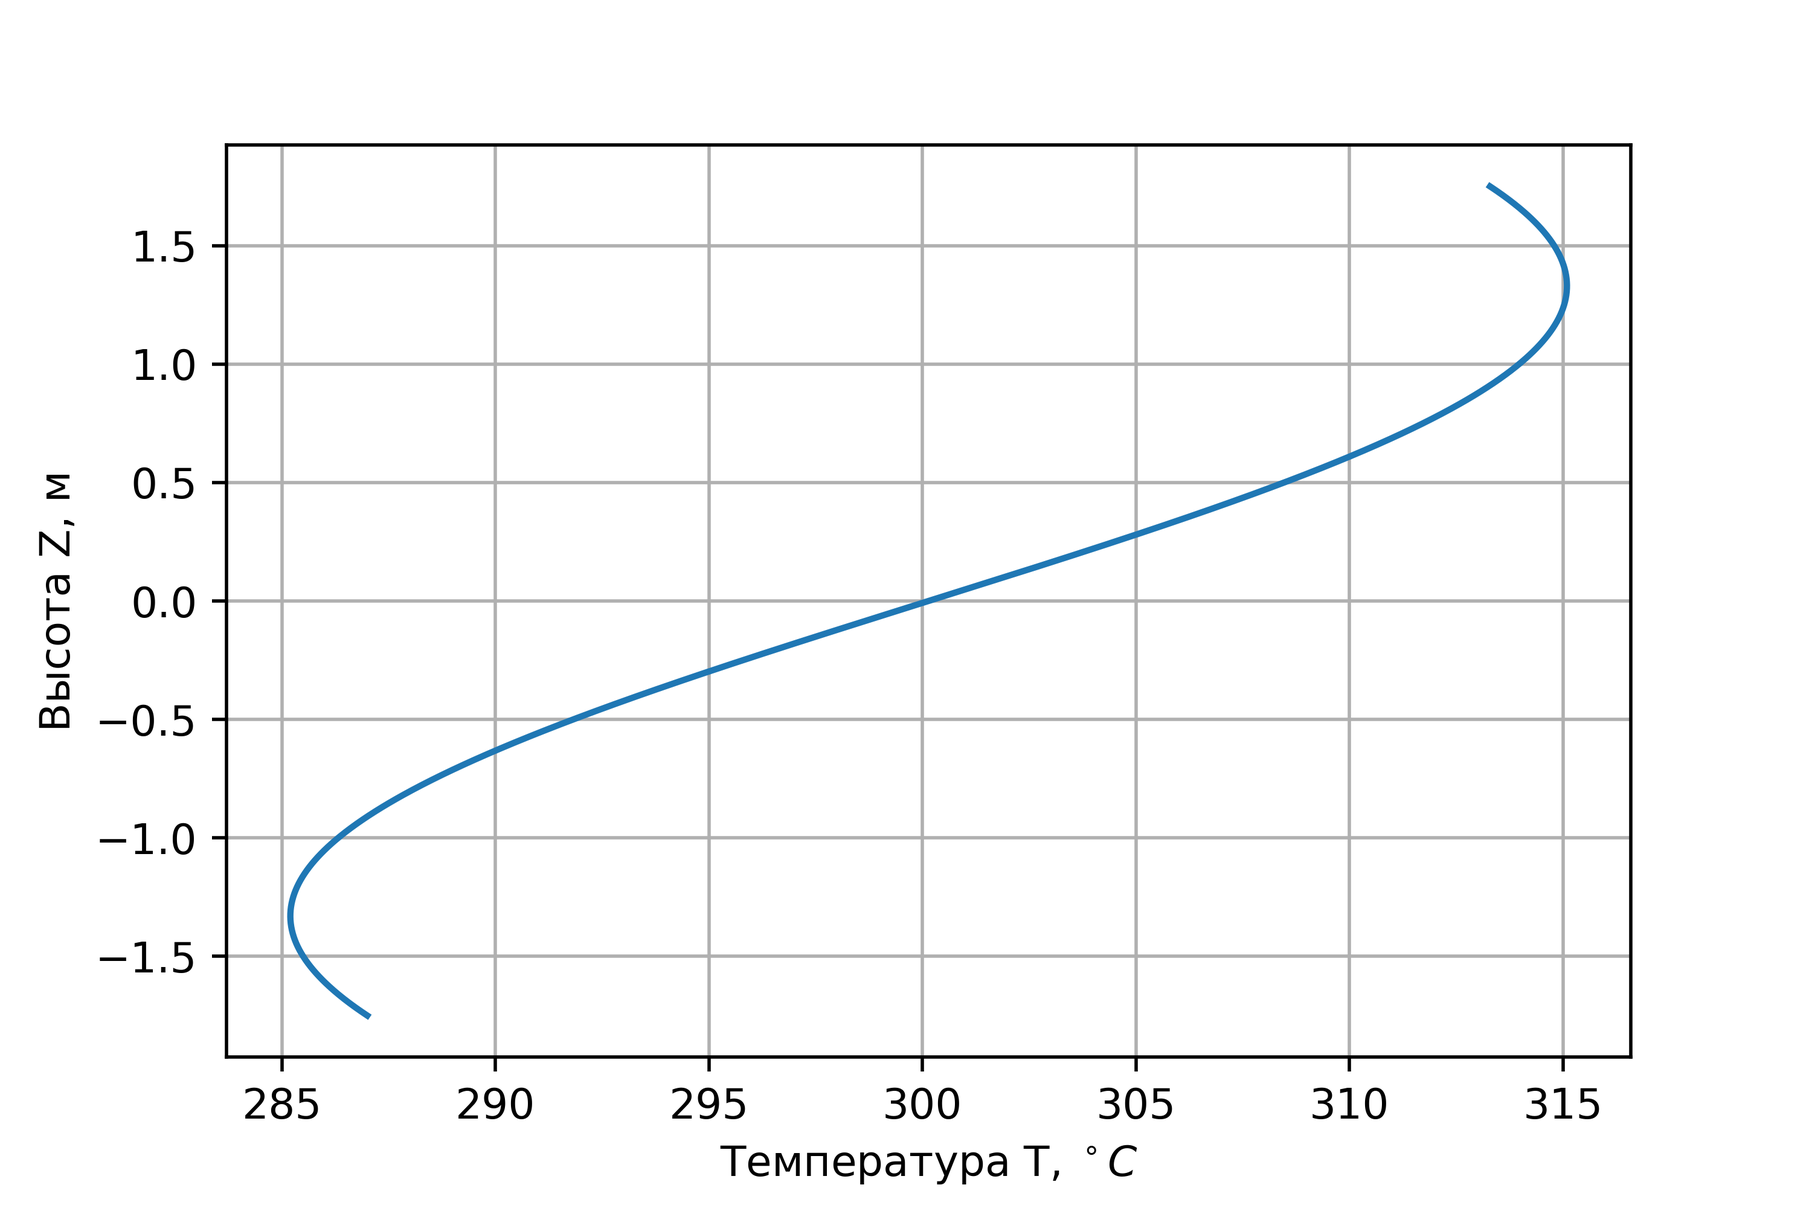
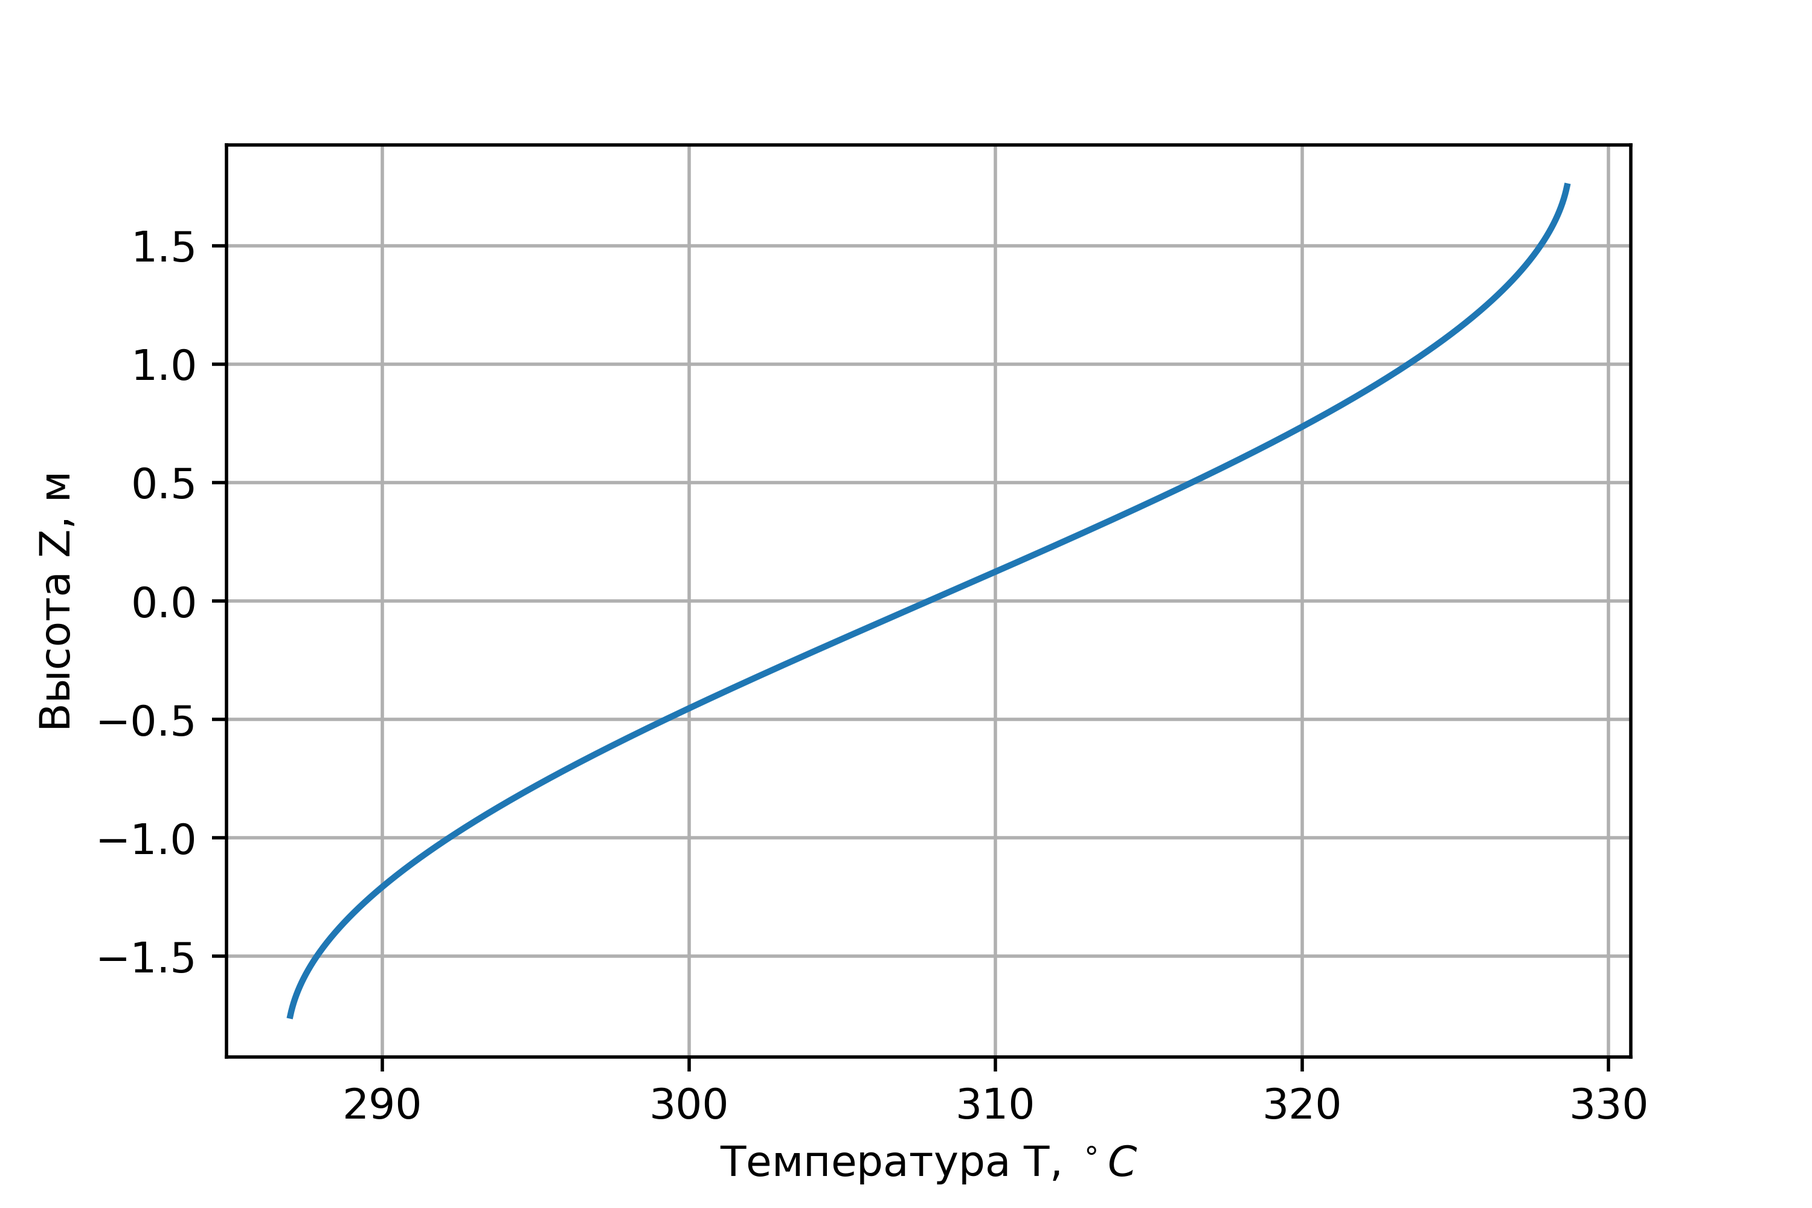
пересчитал, переписал до первого графика

diff --git a/content.tex b/content.tex
@@ -1,6 +1,6 @@
-\section*{Введение}
-\addcontentsline{toc}{section}{\protect Введение}%
-IN PROGRESS...
+% \section*{Введение}
+% \addcontentsline{toc}{section}{\protect Введение}%
+% IN PROGRESS...
 
 
 \section{Описание конструкции реактора}
@@ -10,7 +10,9 @@ IN PROGRESS...
 В верхней части реактора расположена герметично закрытая крышка с установленными на ней приводами механизмов и органов регулирования и защиты. Также крышка оснащена патрубками для вывода кабелей датчиков внутриреакторного контроля. Крепление  к корпусу осуществляется с помощью шпилек. 
 
 
-Реактор имеет двухконтурную систему. Энергия, выделяющаяся в результате ценой реакции деления ядер урана, преобразуется в тепловую энергию теплоносителя первого контура. Далее нагретый теплоноситель поступает с помощью тепловых насосов в парогенераторы, где происходит отдача тепла воде второго контура. Образовавшийся в парогенераторах пар далее поступает в паротурбинную установку, приводящую в движение турбогенератор, который вырабатывает электроэнергию. Вода, первогок
+Реактор имеет двухконтурную систему. Энергия, выделяющаяся в результате ценой реакции деления ядер урана, преобразуется в тепловую энергию теплоносителя первого контура. Далее нагретый теплоноситель поступает с помощью тепловых насосов в парогенераторы, где происходит отдача тепла воде второго контура. Образовавшийся в парогенераторах пар далее поступает в паротурбинную установку, приводящую в движение турбогенератор, который вырабатывает электроэнергию. 
+
+После передачи энергии в парогенераторах вода первого контура поступает в реактор через нижний ряд напорных патрубков. Сплошная кольцевая перегородка между рядами нижних и верхних патрубков, дистанцирующая корпус реактора и его шахту, формирует движение потока теплоносителя вниз. Поэтому вода проходит вниз по кольцевому зазору между корпусом и внутрикорпусной шахтой, затем через перфорированное эллиптическое днище и опорные трубы шахты входит в топливные тепловыделяющие сборки. Из ТВС через перфорированную нижнюю плиту блока защитных труб (БЗТ) теплоноситель выходит в межтрубное пространство БЗТ, а затем через кольцевой зазор между шахтой и корпусом и четыре верхних выходных патрубка из реактора.
 
 %Параграф про водо-водянистость
 %Параграф про корпусность
@@ -204,25 +206,25 @@ IN PROGRESS...
          Точка & P, МПа & T, $^\circ C$ & S, Дж/(кг*К) & h, кДж/кг \\ 
          \midrule
          \hline
-          h &  2.6 & 220 & 2517 & 943.7\\ 
+          h & 2.3 & 220 & 2516 & 942.9\\ 
          \hline
-          b & 6.5 & 281 & 3076 & 2780 \\ 
+          b & 6.5 & 280 & 3066 & 1235.8 \\ 
          \hline
-          c & 6.5 & 281 & 5852 & 2779\\ 
+          c & 6.5 & 280 & 5858.9 & 2779.9\\ 
          \hline
-          d & 1.13 & 185 & 5852 & 2465 \\ 
+          d & 0.6 & 180 & 5858.9 & 2367.2 \\ 
          \hline
-          e & 1.13 & 185 & 6543 & 2782 \\ 
+          e & 0.6 & 180 & 6585.2 & 2777.1 \\ 
          \hline
-          f & 1.13 & 250  & 6863 & 2938 \\ 
+          f & 0.6 & 260  & 7222.5 & 29678.3 \\ 
          \hline
-          k & 0.0023 & 20 & 6863 & 1998 \\ 
+          k & 0.0023 & 20 & 7222.5 & 2112.4 \\ 
          \hline
-          k′ & 0.0023 & 20 & 295.2 & 83.92 \\ 
+          k′ & 0.0023 & 20 & 294.4 & 83.29 \\ 
          \hline
-          a & 6.5 & 20 & 295.2 & 90 \\ 
+          a & 6.5 & 20 & 293 & 89.39 \\ 
          \hline
-          g & 1.13 & 185 & 2188 & 785.3 \\ 
+          g & 0.6 & 180 &  2138.1 & 7599.2 \\ 
          \bottomrule
 		\end{tabular}
 		\label{tabular:coeffs}
@@ -233,20 +235,18 @@ IN PROGRESS...
 $$
 η_{t0} = 1 -
 \frac{T_{k} ⋅ \left( s_{f} - s_{a} \right) ⋅ x_{d}}
-{\left( h_{c} - h_{g} \right) +x_{d}\left( \left( h_{g} - h_{a} \right) + \left( h_{f} - h_{e} \right) \right)} = 0.424
+{\left( h_{c} - h_{g} \right) +x_{d}\left( \left( h_{g} - h_{a} \right) + \left( h_{f} - h_{e} \right) \right)} = 0.395
 %= \VAR{KPD_t0}
 $$
 Термический КПД с идеальной регенерацией:
 $$
 η_{t∞} = 1 -
 \frac{T_{k} ⋅ \left( s_{f} - s_{g} \right) \left( s_{c} - s_{h} \right)}
-{\left(h_{c} - h_{h}\right) ⋅ \left( s_{e} - s_{g} \right) + \left( h_{f} - h_{e} \right) ⋅ \left( s_{f} - s_{h} \right)} = 0.473
-%= \VAR{KPD_t∞}
+{\left(h_{c} - h_{h}\right) ⋅ \left( s_{e} - s_{g} \right) + \left( h_{f} - h_{e} \right) ⋅ \left( s_{f} - s_{h} \right)} = 0.454
 $$
 Термический КПД с $n = 7$  регенеративными отборами:
 $$
-η_{tn} = η_{t0} + \left( η_{t∞} - η_{t0} \right) ⋅ \frac{n}{n+1} = 0.467
-%= \VAR{KPD_tn}
+η_{tn} = η_{t0} + \left( η_{t∞} - η_{t0} \right) ⋅ \frac{n}{n+1} = 0.446
 $$
 
 Учитываем:
@@ -256,22 +256,22 @@ $\eta_{\text{эг}}$ = 0.98 — КПД электрогенератора;
 $\eta_{\text{мех}}$ = 0.97 — КПД механический,
 Вычисляем КПД брутто АЭС как:
 $$
-\eta_{\text{брутто}} = \eta^7 \cdot \eta^{\text{вн}} \cdot \eta_{\text{ос}} \cdot \eta_{\text{эг}} \cdot \eta_{\text{мех}} = 0.37
+\eta_{\text{брутто}} = \eta^7 \cdot \eta^{\text{вн}} \cdot \eta_{\text{ос}} \cdot \eta_{\text{эг}} \cdot \eta_{\text{мех}} = 0.354
 $$
 Тепловая мощность реактора при номинальной электрической мощности $Q_{\text{эл}} = 1000$ МВт равна:
 $$
-Q_{\text{теп}} = \frac {Q_{\text{эл}}} {\eta^{\text{брутто}}} = 2700 МВт 
+Q_{\text{теп}} = \frac {Q_{\text{эл}}} {\eta^{\text{брутто}}} = 2829 МВт 
 $$
 
 
 \subsection{Расчет изменения теплового потока в наиболее нагруженном канале}
-Из условия $K_z = \frac 1 {\int_{-H_{\text{аз}}/2}^{H_{\text{аз}}/2} \cos \left( \frac {\pi \cdot z} {H_{\text{эф}}}\right)dz} = 1.5$ находим эфективную добавку к высоте активной зоны. Эффективная высота активной зоны будет равна $H_{\text{эф}} = 2.66$ м. Максимальная величина теплового потока на один твэл:
+из условия $K_z = \frac {\pi H_{\text{аз}}} {2 H_{\text{эф}} \sin \left(\frac {\pi H_{\text{аз}}}{2H_{\text{эф}}}\right)}  = 1.5$ находим эфективную добавку к высоте активной зоны. эффективная высота активной зоны будет равна $h_{\text{эф}} = 3.715$ м. максимальная величина теплового потока на один твэл:
 $$
-q_{max} = \frac {Q_{\text{теп}}K_r K_z}{N_{ТВС}N_{\text{твэл}}H_{\text{аз}}} = 279.93\  \frac {\text{Вт}} {\text{см}}
+q_{max} = \frac {Q_{\text{теп}}K_r K_z}{N_{ТВС}N_{\text{твэл}}H_{\text{аз}}} = 293.28\  \frac {\text{Вт}} {\text{см}}
 $$ 
 Зависимость величины теплового потока от высоты:
 $$
-q(z) = q_{max}\cos\left(\frac {\pi\cdot z} {H_{\text{эф}}}\right) = 279.93 \cos \left(\frac {\pi \cdot z} {266} \right)\ \left[\frac{\text{Вт}}{\text{см}} \right]
+q(z) = q_{max}\cos\left(\frac {\pi\cdot z} {H_{\text{эф}}}\right) = 293.28 \cos \left(\frac {\pi \cdot z} {3.715} \right)\ \left[\frac{\text{Вт}}{\text{см}} \right]
 $$
 
 \subsection{Расчет распределения температуры теплоносителя по высоте}
@@ -282,21 +282,21 @@ $$
 
 \noindent Расход теплоносителя через ТВС:
 $$
-G_{ТВС} = \frac {Q_{\text{теп}}} {(h_{\text{вх}} - h_{\text{вх}})N_{\text{ТВС}}} = 89.67 \ \frac {\text{кг}}{\text{c}} 
+G_{ТВС} = \frac {Q_{\text{теп}}} {(h_{\text{вх}} - h_{\text{вх}})N_{\text{ТВС}}} = 93.8 \ \frac {\text{кг}}{\text{c}} 
 $$
 Расход теплоносителя через реактор:
 $$
-G_{\text{реак}} = \frac {Q_{\text{теп}}} {\left(h_{\text{вых}} - h_{\text{вх}}\right)} = 14615.6\ \frac{\text{кг}} {\text{с}}
+G_{\text{реак}} = \frac {Q_{\text{теп}}} {\left(h_{\text{вых}} - h_{\text{вх}}\right)} = 15290.78\ \frac{\text{кг}} {\text{с}}
 $$
 Средняя теплоемкость воды:
 $$
-C_p = \frac {h_{\text{вых}} - h_{\text{вх}}} {T_{\text{вых}} - T_{\text{вх}}} = 5606.06\ \frac{\text{Дж}} {\text{кг} \cdot \text{К}}
+C_p = \frac {h_{\text{вых}} - h_{\text{вх}}} {T_{\text{вых}} - T_{\text{вх}}} = 5606.1\ \frac{\text{Дж}} {\text{кг} \cdot \text{К}}
 $$
 \noindent Распределение температуры теплоносителя по высоте реактора:
 $$
 T_{ТН}(z) = T_{\text{вх}} + \frac {N_{\text{ТВС}}N_{\text{ТВЭЛ}}q_{\max}H_{\text{эф}}} {G_{\text{реак}}C_p\pi}\left[\sin \left(\frac {\pi z}{H_{\text{эф}}} \right) +\sin \left(\frac {\pi H_{\text{АЗ}}} {2H_{\text{эф}}} \right) \right]
 $$
-\noindent Отсюда максимальная температура жидкости $T_{\text{ТН}}^{max} = 315.092\  ^\circ C$.
+\noindent Отсюда максимальная температура жидкости $T_{\text{ТН}}^{max} = 328.64\  ^\circ C$.
 График изменения температуры теплоносителя по высоте представлен на \ref{pic:TZ}
 
 \begin{figure}[H]
@@ -307,7 +307,7 @@ $$
 	\end{center}
 \end{figure}
 
-Максимальная температура теплоносителя определяется из температуры кипения теплоносителя при давлении в активной зоне. Температура насыщения воды при давлении $15.7$ МПа — $345.8\  ^\circ C$. Отсюда следует что запас до кипения $\approx 31 ^\circ C$. 
+Максимальная температура теплоносителя определяется из температуры кипения теплоносителя при давлении в активной зоне. Температура насыщения воды при давлении $15.7$ МПа — $345.8\  ^\circ C$. Отсюда следует что запас до кипения $\approx 17.16\  ^\circ C$. 
 
 \subsection{Расчет распределения температуры внешней стенки оболочки по высоте}
 Площадь проходного сечения:
@@ -418,6 +418,7 @@ $$
 	\end{center}
 \end{figure}
 
+Максимальная температура топлива $T_{\text{топ}} = 1441 ^\circ C$ при $Z_{\text{max}} = 0.012 \text{м}$. Максимально допустимая температура топлива при авариях определяется температурой плавления оксида урана и составляет с некоторым запасом $2600 ^\circ C$. Однако в условиях нормальной эксплуатации максимально допустимая температура топлива определяется сколонностью топлива к усиленному распуханию начиная с некоторой температуры, которая равна $1990 ^\circ C$.
 
 \subsection{Определение перепадов давления и необходимой мощности насосов на прокачку}
 Для того чтобы определить мощность на прокачку теплоносителя через реактор, найде перепад давления в ТВС
@@ -454,6 +455,11 @@ $$
 % \subsection{Определение запаса до кризиса теплообмена}
 
 \subsection{Выводы из теплофизического расчета}
-
+По итогам теплогидравлического расчета были определены основные термодинамические и теплогидравлические параметру РУ ВВЭР-1000. Были выполнены следующие поставленные задачи:
+\begin{enumerate}
+   \item Произведен выбор турбины и определён её КПД равный 0.369 с учетом мощности, необходимой на прокачку теплоносителя.
+   \item Были найдены зависимости температуры оболочки и теплоносителя от высоты АЗ, было выяснено, что поверхностного кипения не наблюдается, и максимальная тепература оболочки твэла 326.2 $^\circ C$ не превышает предельно допустимую.
+   \item Определена зависимость температуры топлива от высоты АЗ, максимальная температура топлива $1441 ^\circ C$ не превышает предельное значение $1900 ^\circ C$.
+\end{enumerate}
 
 % \section{Нейтронно-физический расчет}
